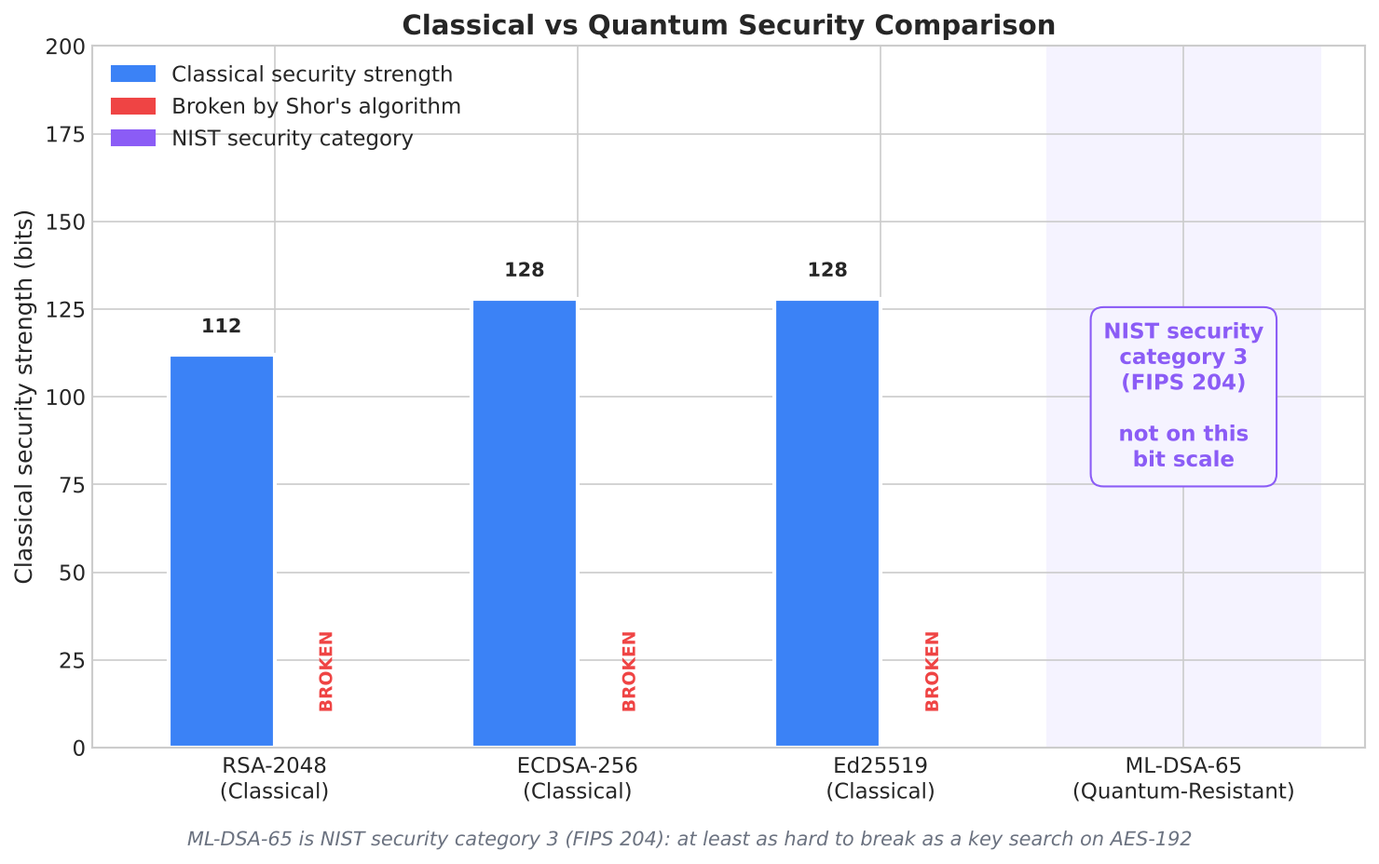
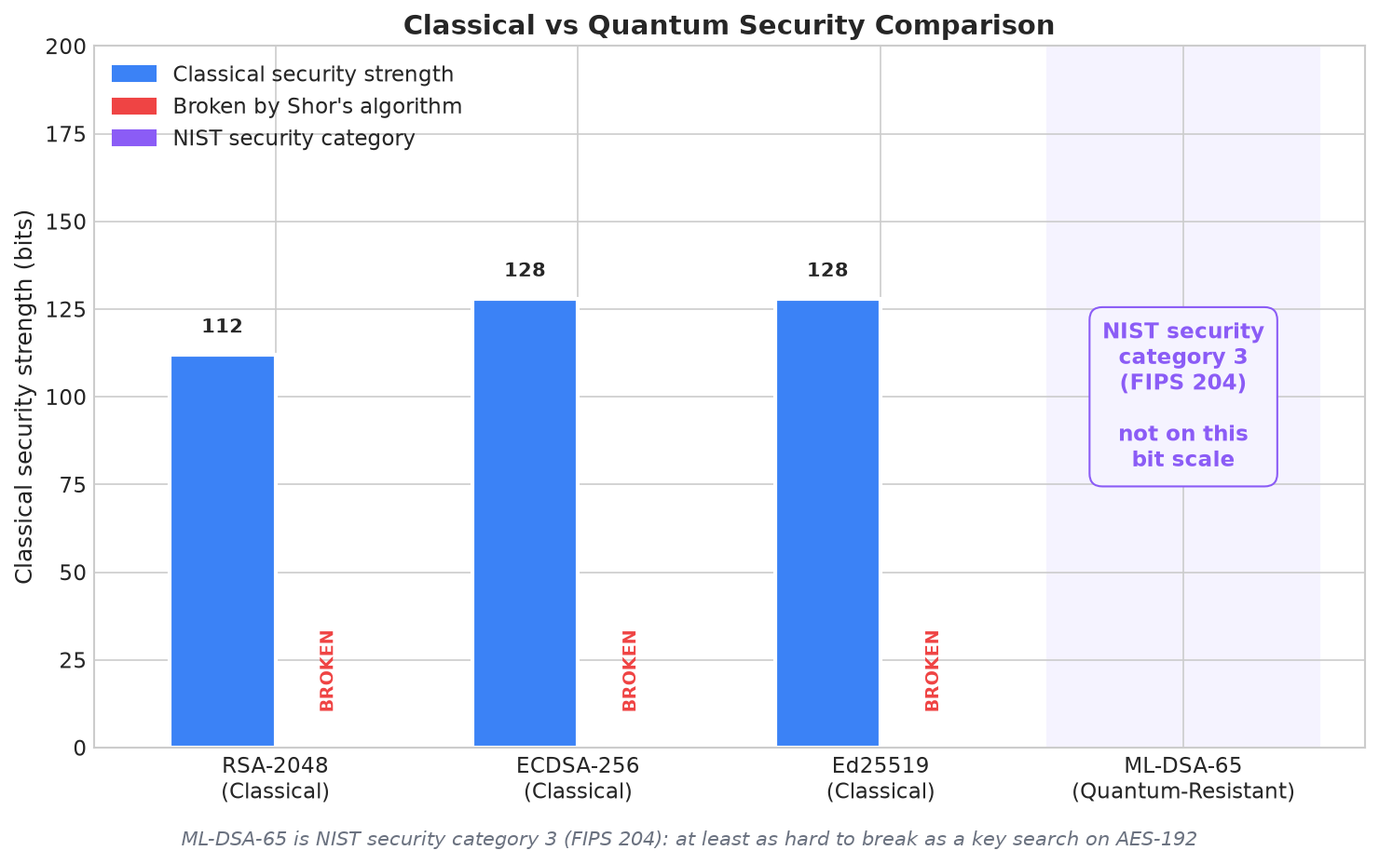
Imports rebind too — the gate's reset covers its own subject; the overridden-configuration null derivation is a stated cost contract
The final Copilot review on 4cb3c59 posted after that head was pushed,
so its two banner findings had no session watching and no thread to
carry them; both measured real on examination.

First: import os; import pathlib as os; import os flagged the third
line while deleting it leaves os bound to pathlib and breaks os.sep
(measured: AttributeError), and an intervening from-import alias had
the same problem — the rebinding reset covered every binding construct
except imports themselves. _scan_direct_imports now resets a tracked
key when a later import binds the same name to a DIFFERENT value and
treats from-import aliases as rebindings; value equality keeps true
redundancies flagged (import os.path between two import os rebinds os
to the same module, so the repeat stays a duplicate — measured:
deletion changes nothing). The own-scope exemption is answered
pairwise over (bound name, bound value) via _import_bound_pairs, so
import pathlib as os beside a nested plain import os exempts it while
import os as _os twice stays flagged — a first name-level form of this
fix broke exactly that repeated-identical-alias pin and was replaced.
PIN test_an_import_rebinding_makes_the_restore_import_load_bearing,
mutation-earned both ways: the reset dropped fails its top-level
cases, the pairwise exemption disabled fails its function-scope cases,
each exactly there, with both premises executed inside the test. The
tree sweep's verdict is unchanged.
[…]

diff --git a/tests/test_import_hygiene.py b/tests/test_import_hygiene.py
@@ -125,15 +125,31 @@ def _scan_direct_imports(
     """Flag repeats among one statement list's import bindings; return the
     ``(module, asname)`` pairs the list binds.
 
-    An intervening non-import statement that rebinds a name resets it:
-    after ``import os; os = 1`` a second ``import os`` in the same list
-    restores the module binding, so deleting it would leave the rebound
-    value — load-bearing, not dead (the same rule the cross-scope shape
-    applies at module scope; review finding, 2026-10-07).  The rebinding
-    walk over a compound statement over-collects from its nested suites,
-    which are scanned separately — over-collection only widens the reset,
-    the safe direction.
+    An intervening statement that rebinds a name resets it: after
+    ``import os; os = 1`` a second ``import os`` in the same list restores
+    the module binding, so deleting it would leave the rebound value —
+    load-bearing, not dead (the same rule the cross-scope shape applies at
+    module scope; review finding, 2026-10-07).  Imports rebind too (review
+    finding, 2026-10-07, second round): ``import pathlib as os`` and
+    ``from pathlib import Path as os`` each rebind ``os``, so a later
+    ``import os`` restores the module and is exempt.  An import resets a
+    key only when it binds the same name to a DIFFERENT value —
+    ``import os.path`` between two ``import os`` rebinds ``os`` to the
+    same module object, so the repeat stays flagged (measured: deleting it
+    changes nothing).  A plain alias binds its root module, an ``as``
+    alias binds the full dotted module, and a from-import never binds a
+    module this gate tracks, so it always resets.  The rebinding walk over
+    a compound statement over-collects from its nested suites, which are
+    scanned separately — over-collection only widens the reset, the safe
+    direction.
     """
+
+    def bound_name(key: tuple[str, str | None]) -> str:
+        return key[1] or key[0].split(".")[0]
+
+    def bound_value(key: tuple[str, str | None]) -> str:
+        return key[0] if key[1] else key[0].split(".")[0]
+
     seen: set[tuple[str, str | None]] = set()
     for stmt in body:
         if isinstance(stmt, ast.Import):
@@ -141,11 +157,19 @@ def _scan_direct_imports(
                 key = (alias.name, alias.asname)
                 if key in seen:
                     found.add((stmt.lineno, alias.name))
+                seen = {
+                    k
+                    for k in seen
+                    if bound_name(k) != bound_name(key) or bound_value(k) == bound_value(key)
+                }
                 seen.add(key)
             continue
-        rebound = _statement_bound_names(stmt)
+        if isinstance(stmt, ast.ImportFrom):
+            rebound = {alias.asname or alias.name for alias in stmt.names}
+        else:
+            rebound = _statement_bound_names(stmt)
         if rebound:
-            seen = {key for key in seen if (key[1] or key[0].split(".")[0]) not in rebound}
+            seen = {key for key in seen if bound_name(key) not in rebound}
     return seen
 
 
@@ -194,8 +218,9 @@ def _function_bound_names(fn: ast.AST, include_imports: bool = True) -> set[str]
     is the one binding the stop skips — vanishingly rare, and missing it
     only leaves a flag standing for a human to judge.
     ``include_imports=False`` drops the bindings import statements create,
-    for the own-scope question below (where the import under test must not
-    exempt itself).
+    for the own-scope question below: whether an import exempts its own
+    scope is value-dependent, so it is answered pairwise by
+    :func:`_import_bound_pairs`, not by this name set.
     """
     out: set[str] = set()
     args = getattr(fn, "args", None)
@@ -247,10 +272,14 @@ def _shadowed_nested_import_bindings(tree: ast.Module) -> set[tuple[int, str]]:
     * the import's OWN scope binds the name by a non-import construct
       (``os = 1`` anywhere in the function makes ``os`` function-local
       throughout, so without the import the use site hits that assignment
-      or UnboundLocalError, never the module import).  Import-created
-      bindings are excluded from the own-scope set so the import under
-      test cannot exempt itself and a genuine same-scope re-import stays
-      flagged.
+      or UnboundLocalError, never the module import), or by an import that
+      binds the same name to a DIFFERENT value — ``import pathlib as os``
+      and ``from pathlib import Path as os`` leave the plain ``import os``
+      beside them as what restores the module, never a repeat (review
+      finding, 2026-10-07, final Copilot round).  The own-scope import
+      question is answered pairwise over ``(bound name, bound value)``, so
+      an import cannot exempt itself and a same-value repeat —
+      ``import os as _os`` twice — stays flagged.
 
     Class bodies pass the enclosing set through unchanged — nested
     functions skip class scope in name resolution, so a class-body binding
@@ -263,16 +292,20 @@ def _shadowed_nested_import_bindings(tree: ast.Module) -> set[tuple[int, str]]:
         if isinstance(scope_node, ast.Module):
             own_all: frozenset[str] = frozenset()
             exempt: frozenset[str] = frozenset()
+            own_pairs: frozenset[tuple[str, str]] = frozenset()
         else:
             own_all = frozenset(_function_bound_names(scope_node))
             exempt = enclosing | frozenset(_function_bound_names(scope_node, include_imports=False))
+            own_pairs = frozenset(_import_bound_pairs(scope_node))
         stack: list[ast.AST] = list(ast.iter_child_nodes(scope_node))
         while stack:
             child = stack.pop()
             if isinstance(child, ast.Import):
                 for alias in child.names:
                     bound = alias.asname or alias.name.split(".")[0]
-                    if bound in exempt:
+                    value = alias.name if alias.asname else alias.name.split(".")[0]
+                    divergent = any(b == bound and v != value for b, v in own_pairs)
+                    if bound in exempt or divergent:
                         out.add((id(child), bound))
             if isinstance(child, (ast.FunctionDef, ast.AsyncFunctionDef, ast.Lambda)):
                 collect(child, enclosing | own_all)
@@ -280,6 +313,41 @@ def _shadowed_nested_import_bindings(tree: ast.Module) -> set[tuple[int, str]]:
                 stack.extend(ast.iter_child_nodes(child))
 
     collect(tree, frozenset())
+    return out
+
+
+def _import_bound_pairs(fn: ast.AST) -> set[tuple[str, str]]:
+    """``(bound name, bound value)`` pairs the function's own imports bind.
+
+    A plain ``import A.B`` binds ``A`` to module ``A``; ``import A.B as C``
+    binds ``C`` to module ``A.B``; ``from M import N as C`` binds ``C`` to
+    the attribute ``M.N``, encoded ``"from:M:N"`` so it can never equal a
+    module path.  The pairs let the own-scope exemption above compare
+    values, not just names: an import whose scope holds another import of
+    the SAME name but a DIFFERENT value is load-bearing (it restores the
+    module that other import displaced), while a same-value repeat is the
+    duplicate the gate exists to flag.  The walk stops where
+    :func:`_function_bound_names` stops (nested function and class bodies
+    bind their own scopes).
+    """
+    out: set[tuple[str, str]] = set()
+    body = getattr(fn, "body", [])
+    stack: list[ast.AST] = list(body) if isinstance(body, list) else [body]
+    while stack:
+        node = stack.pop()
+        if isinstance(node, (ast.FunctionDef, ast.AsyncFunctionDef, ast.ClassDef, ast.Lambda)):
+            continue
+        if isinstance(node, ast.Import):
+            for alias in node.names:
+                if alias.asname:
+                    out.add((alias.asname, alias.name))
+                else:
+                    root = alias.name.split(".")[0]
+                    out.add((root, root))
+        elif isinstance(node, ast.ImportFrom):
+            for alias in node.names:
+                out.add((alias.asname or alias.name, f"from:{node.module}:{alias.name}"))
+        stack.extend(ast.iter_child_nodes(node))
     return out
 
 
@@ -444,6 +512,55 @@ def test_a_module_scope_rebinding_makes_the_import_load_bearing() -> None:
         "import os\n\nprint(os.sep)\n"
     )
     assert duplicate_plain_imports(mapping_rest) == []
+
+
+def test_an_import_rebinding_makes_the_restore_import_load_bearing() -> None:
+    """PIN (review finding, 2026-10-07, final Copilot round): imports rebind
+    too.  ``import pathlib as os`` and ``from pathlib import Path as os``
+    each leave ``os`` bound to something other than the ``os`` module, so a
+    later plain ``import os`` RESTORES the module — deleting it breaks the
+    use sites (measured below: AttributeError on ``os.sep``) — while
+    ``import os.path`` rebinds ``os`` to the SAME module object, so a
+    repeat across it stays a flagged redundancy (measured: deletion changes
+    nothing).  Mutation: dropping the value-aware reset from
+    ``_scan_direct_imports`` fails the two top-level exemptions; dropping
+    the divergent-import own-scope bindings from ``_function_bound_names``
+    fails the two function-scope exemptions — each exactly here."""
+    aliased = "import os\nimport pathlib as os\nimport os\n\nprint(os.sep)\n"
+    assert duplicate_plain_imports(aliased) == []
+    from_form = "import os\nfrom pathlib import Path as os\nimport os\n\nprint(os.sep)\n"
+    assert duplicate_plain_imports(from_form) == []
+    # The premise, measured in place: WITHOUT the restore import, the use
+    # site resolves ``os`` to the rebound value and breaks.
+    for deleted in (
+        "import os\nimport pathlib as os\nos.sep\n",
+        "import os\nfrom pathlib import Path as os\nos.sep\n",
+    ):
+        with pytest.raises(AttributeError):
+            exec(  # noqa: S102 -- fixed test literal, premise measurement (TIH-001)
+                compile(deleted, "<rebound>", "exec"), {}
+            )
+    # Same-value rebinding is no exemption: ``import os.path`` binds ``os``
+    # to the os module itself, so the repeat across it stays flagged, and a
+    # genuine duplicate aliased pair stays flagged (value-equality guard).
+    same_value = "import os\nimport os.path\nimport os\n"
+    assert duplicate_plain_imports(same_value) == [(3, "os")]
+    aliased_pair = "import pathlib as p\nimport pathlib as p\n"
+    assert duplicate_plain_imports(aliased_pair) == [(2, "pathlib")]
+    # The same two shapes exempt at function scope (the own-scope set
+    # counts divergent import bindings; a plain re-import still cannot
+    # self-exempt — control below).
+    fn_aliased = (
+        "import os\n\n\ndef f():\n    import pathlib as os\n    import os\n\n" "    return os.sep\n"
+    )
+    assert duplicate_plain_imports(fn_aliased) == []
+    fn_from = (
+        "import os\n\n\ndef f():\n    from pathlib import Path as os\n"
+        "    import os\n\n    return os.sep\n"
+    )
+    assert duplicate_plain_imports(fn_from) == []
+    fn_control = "import os\n\n\ndef f():\n    import os\n    import os\n\n    return os.sep\n"
+    assert duplicate_plain_imports(fn_control) == [(5, "os"), (6, "os")]
 
 
 def test_a_class_body_binding_does_not_exempt_a_nested_duplicate() -> None:

diff --git a/ama_cryptography/monitoring.py b/ama_cryptography/monitoring.py
@@ -2372,7 +2372,11 @@ class ResonanceTimingMonitor:
             ``window_size=20000`` monitor produced m = 16,384, off the
             pinned table, and the first report ran a 65.5-million-draw
             synchronous null simulation — measured 15.1 s — plus a
-            32,768-point FFT).
+            32,768-point FFT).  The pinned bars answer for the default
+            configuration; a subclass overriding the resonance
+            configuration derives its own bars, a bounded one-time cost
+            per spectrum size stated at :meth:`_multiline_threshold`'s
+            cost contract (measured 5.2 s at the capped worst size).
         """
         # Snapshot under the monitor lock: record_timing() appends to this
         # same deque under self._lock on every instrumented operation, and
@@ -2587,8 +2591,24 @@ class ResonanceTimingMonitor:
         of ``m`` iid unit-exponential ordinates (the periodogram null).
         The seed is fixed per size, so the bar is byte-reproducible across
         processes, and the result is cached: the draw runs once per
-        distinct spectrum size per process, off the hot path
+        distinct cache identity per process, off the hot path
         (detect_resonance is on-demand, not per-record).
+
+        Cost contract (measured, 2026-10-07): the DEFAULT configuration
+        never pays the draw from the public pipeline — detect_resonance's
+        window cap keeps every spectrum size it can produce on the pinned
+        table.  A subclass that overrides ``RESONANCE_FALSE_ALARM_RATE``,
+        ``MULTILINE_ORDINATES`` or ``_MULTILINE_NULL_TRIALS`` has changed
+        what the bar must be, so its first report at each spectrum size
+        derives the bar here — 5.2 s at the capped worst size (m = 8,192,
+        4,000 trials, shared 4-vCPU container), microseconds from the
+        cache thereafter.  That one-time cost is what a correct empirical
+        bar for a non-default configuration costs: the table cannot be
+        precomputed over a continuous override space, and serving the
+        default table to an overridden configuration was the defect the
+        configuration gate closed.  An overriding operator who cannot
+        afford first-report latency can warm the cache at startup by
+        calling this method directly for the sizes the window produces.
 
         The iid-exponential null is an IDEALISATION shared with Fisher's
         analytic bar above it: the pipeline zero-pads n samples to the next

diff --git a/docs/METRICS_REPORT.md b/docs/METRICS_REPORT.md
@@ -91,20 +91,20 @@ Measured as non-empty-allowed `wc -l` over source files in each scope.
 
 | Scope | Files | Lines |
 |-------|------:|------:|
-| Library Python (`ama_cryptography/*.py`) | 30 | 43,191 |
+| Library Python (`ama_cryptography/*.py`) | 30 | 43,211 |
 | Native C (`src/c/**/*.c`, `include/**/*.h`) | 89 | 54,245 |
-| Library total (Python + C + headers) | 119 | **97,436** |
+| Library total (Python + C + headers) | 119 | **97,456** |
 | Top-level Python (monitors, benchmarks, demos) | 2 | 1,467 |
-| Tests (`tests/**/*.py`) | 279 | 133,004 |
+| Tests (`tests/**/*.py`) | 279 | 133,121 |
 | Cython (`*.pyx`, `*.pxd`) | 7 | 1,898 |
-| **Whole project** (source + docs + config) | 790 | **478,721** |
+| **Whole project** (source + docs + config) | 790 | **478,901** |
 
 **Library total (the figure that most closely tracks "library size"):
-97,436 lines** across 119 files under `ama_cryptography/`, `src/c/`,
+97,456 lines** across 119 files under `ama_cryptography/`, `src/c/`,
 and `include/`. This supersedes any "11,246 LoC" claim that may have
 appeared externally.
 
-**Whole-project total** (`478,721` lines across Python, C, headers,
+**Whole-project total** (`478,901` lines across Python, C, headers,
 Cython, Markdown, YAML/TOML/JSON config, CMake and Makefiles) is the
 broader figure some external claims may have been referencing. Reproduce
 it with:
@@ -155,7 +155,7 @@ excluded.
 
 ### Scope Composition
 
-The gap between "library" and "whole project" is informative: only **20.4%** of the repository is library code. The rest is tests, docs,
+The gap between "library" and "whole project" is informative: only **20.3%** of the repository is library code. The rest is tests, docs,
 config, vendored vector corpora, and scaffolding — verification
 artifacts outweighing library code is a healthy ratio for a security
 library that takes verification seriously, but the vendored share means
@@ -163,14 +163,14 @@ the whole-project figure overstates hand-written code.
 
 | Scope                                | Lines    | % of whole | Paths                                                   |
 |--------------------------------------|---------:|-----------:|---------------------------------------------------------|
-| Library (Python + C + headers) | 97,436 | 20.4% | `ama_cryptography/` + `src/c/` + `include/` |
-| Tests | 133,004 | 27.8% | `tests/**/*.py` |
+| Library (Python + C + headers) | 97,456 | 20.3% | `ama_cryptography/` + `src/c/` + `include/` |
+| Tests | 133,121 | 27.8% | `tests/**/*.py` |
 | Top-level Python | 1,467 | 0.3% | `*.py` at repo root |
 | Cython | 1,898 | 0.4% | `*.pyx` + `*.pxd` |
-| Everything else (remainder) | 244,916 | 51.2% | `*.md`, `*.yml`, `*.toml`, `*.json`, CMake, Makefile, plus `.c`/`.h`/`.py` outside the scopes above (`tests/c/`, `fuzz/`, `tools/`, `benchmarks/`, `examples/`) |
-| **Whole-project total** | **478,721** | **100%** | sum of the scopes above |
+| Everything else (remainder) | 244,959 | 51.2% | `*.md`, `*.yml`, `*.toml`, `*.json`, CMake, Makefile, plus `.c`/`.h`/`.py` outside the scopes above (`tests/c/`, `fuzz/`, `tools/`, `benchmarks/`, `examples/`) |
+| **Whole-project total** | **478,901** | **100%** | sum of the scopes above |
 
-Test code (27.8%) is roughly 1.4x the size of the library (20.4%) — i.e. the test-to-library ratio is roughly **1.37**, and that
+Test code (27.8%) is roughly 1.4x the size of the library (20.3%) — i.e. the test-to-library ratio is roughly **1.37**, and that
 counts only `tests/**/*.py`; the C test suite under `tests/c/` lands
 in the remainder row. The remainder (51.2%) is dominated by the
 vendored NIST ACVP and Wycheproof JSON corpora (72,695 lines of `*.json` alone) and by this repository's Markdown, not by config.
@@ -238,7 +238,7 @@ git ls-files -z | tr '\0' '\n' \
 | Scope | Count |
 |-------|------:|
 | Python test files under `tests/` matching the static regex | 274 |
-| Syntactic `def test_` matches under `tests/**/*.py` | **6,831** |
+| Syntactic `def test_` matches under `tests/**/*.py` | **6,832** |
 | `test_*.c` files under `tests/c/` (ctest-registered) | 95 |
 | `bench_*.c` files under `tests/c/` (standalone, not in ctest) | 0 |
 | `fuzz_*.c` sources under `fuzz/` | 16 |

diff --git a/CHANGELOG.md b/CHANGELOG.md
@@ -34,6 +34,49 @@ All notable changes to AMA Cryptography will be documented in this file. The for
 > is kept verbatim in
 > [`docs/changelog/5.0.0-development-journal.md`](docs/changelog/5.0.0-development-journal.md).
 
+### Copilot round on `4cb3c59`: imports rebind too, and the derivation cost for an overridden configuration is a stated contract — 2026-10-07
+
+- **The import gate missed that imports themselves rebind.** High, the
+  final Copilot review's banner finding (posted after `4cb3c59` was
+  pushed, so no session had seen it): `import os; import pathlib as os;
+  import os` flagged the third line, while deleting it leaves `os` bound
+  to `pathlib` and breaks `os.sep` (measured: AttributeError), and an
+  intervening `from pathlib import Path as os` had the same problem —
+  the rebinding reset covered every binding construct EXCEPT the gate's
+  own subject.  `_scan_direct_imports` now resets a tracked key when a
+  later import binds the same name to a DIFFERENT value, and treats
+  from-import aliases as rebindings; value equality keeps the true
+  redundancies flagged (`import os.path` between two `import os` rebinds
+  `os` to the same module, so the repeat stays a duplicate — measured:
+  deletion changes nothing).  The own-scope exemption is now answered
+  pairwise over `(bound name, bound value)` via `_import_bound_pairs`,
+  so `import pathlib as os` beside a nested plain `import os` exempts it
+  while `import os as _os` twice stays flagged — a first name-level form
+  of this fix broke exactly that repeated-identical-alias pin and was
+  replaced.  PIN
+  `test_an_import_rebinding_makes_the_restore_import_load_bearing`
+  (mutation-earned both ways: the reset dropped fails its top-level
+  cases, the pairwise exemption disabled fails its function-scope cases,
+  each exactly there; both premises executed in the test).  The tree
+  sweep's verdict is unchanged.
+- **The one-time null-bar derivation for an overridden resonance
+  configuration is a stated cost contract, not a removed path.** The
+  same review observed that a subclass overriding
+  `RESONANCE_FALSE_ALARM_RATE`, `MULTILINE_ORDINATES` or
+  `_MULTILINE_NULL_TRIALS` still reaches the synchronous measured-null
+  derivation from `get_security_report` (at the capped worst size,
+  m = 8,192: measured 5.2 s once, microseconds from the cache after).
+  Measured and kept, with the contract documented at
+  `_multiline_threshold` and `detect_resonance`: the default
+  configuration never pays it (the window cap keeps every public
+  spectrum size on the pinned table), the override space is continuous
+  so no table can precompute it, and serving the default table to an
+  overridden configuration was precisely the defect the configuration
+  gate closed — the review's suggested remedies would reintroduce it or
+  refuse a supported override.  An operator who cannot afford
+  first-report latency warms the cache at startup; the path is the
+  correct bar's irreducible cost, not an oversight.
+
 ### Copilot round on `08617a4`: mapping-rest captures are bindings, one working directory in the example sequences — 2026-10-07
 
 - **Both binding collectors in the import gate missed

diff --git a/README.md b/README.md
@@ -927,7 +927,7 @@ The test suite includes:
 
 ![Test Suite Coverage](assets/test_coverage.png)
 
-*6,831 test functions across 274 Python test files plus 95 C test suites (97 translation units) covering core crypto and NIST KATs (including the AVX-512 4-way Keccak KAT, CSPRNG-failure scrubbing (`tests/c/test_csprng_failure_residue.c`), ML-DSA hint encoding (`tests/c/test_ml_dsa_hint_encoding.c`), input guards (`tests/c/test_input_guards.c`), fe51-vs-fe64 X25519 byte-equivalence, MULX+ADX equivalence, VAES AES-GCM equivalence, FROST threshold signing, Ed25519 Shamir verify and base-point comb equivalence, and Dilithium / Kyber sampling-equivalence pinning), PQC backends, key management, adaptive posture, hybrid combiner, memory security, fuzz harnesses, and performance/monitoring. See [docs/METRICS_REPORT.md](docs/METRICS_REPORT.md) for the authoritative count and reproduction command (`grep -rE "^\s*def test_" tests/ --include='*.py' | wc -l`).*
+*6,832 test functions across 274 Python test files plus 95 C test suites (97 translation units) covering core crypto and NIST KATs (including the AVX-512 4-way Keccak KAT, CSPRNG-failure scrubbing (`tests/c/test_csprng_failure_residue.c`), ML-DSA hint encoding (`tests/c/test_ml_dsa_hint_encoding.c`), input guards (`tests/c/test_input_guards.c`), fe51-vs-fe64 X25519 byte-equivalence, MULX+ADX equivalence, VAES AES-GCM equivalence, FROST threshold signing, Ed25519 Shamir verify and base-point comb equivalence, and Dilithium / Kyber sampling-equivalence pinning), PQC backends, key management, adaptive posture, hybrid combiner, memory security, fuzz harnesses, and performance/monitoring. See [docs/METRICS_REPORT.md](docs/METRICS_REPORT.md) for the authoritative count and reproduction command (`grep -rE "^\s*def test_" tests/ --include='*.py' | wc -l`).*
 
 </details>
 
@@ -1486,7 +1486,7 @@ The human architect does not hold formal credentials in cryptography. The AI con
 
 - **Standards-based design:** Built on the standards in [CSRC_STANDARDS.md](CSRC_STANDARDS.md) — not custom cryptography
 - **Quantified claims:** Every published figure names its host, command and record ([docs/BENCHMARK_HISTORY.md](docs/BENCHMARK_HISTORY.md), `benchmarks/canonical-host.json`)
-- **Rigorous testing:** 6,831 test functions across 274 Python files plus 95 C test suites, anchored in [docs/METRICS_REPORT.md](docs/METRICS_REPORT.md); CI includes security scanning, NIST ACVP validation (1,215/1,215 — 815 AFT + 400 SHA-3 MCT), and benchmark-regression checks
+- **Rigorous testing:** 6,832 test functions across 274 Python files plus 95 C test suites, anchored in [docs/METRICS_REPORT.md](docs/METRICS_REPORT.md); CI includes security scanning, NIST ACVP validation (1,215/1,215 — 815 AFT + 400 SHA-3 MCT), and benchmark-regression checks
 - **Regression detection:** Benchmark floors measured on each CI runner class (x86_64 45% tolerance; aarch64 15–25%)
 - **Transparent limitations:** Security analysis explicitly distinguishes self-assessed vs. audited claims
 - **Defense-in-depth:** Security bounded by the weakest layer (~128-bit classical), not inflated aggregate claims

diff --git a/ARCHITECTURE.md b/ARCHITECTURE.md
@@ -789,7 +789,7 @@ AEAD nonce state (INVARIANT-22) and session state are per-process or per-file an
 | NIST ACVP Vectors | Official vector validation | 1,215 vectors, 12 algorithm functions (815 AFT + 400 SHA-3 MCT); self-attested, not CAVP | `nist_vectors/`; `acvp_validation.yml` fails if any of the 1,215 regresses (INVARIANT-18) |
 | Wycheproof | Adversarial vectors | 15 vendored corpora | `wycheproof_vectors/run_wycheproof.py` |
 
-**Total:** 6,831 Python test functions across 274 test files, plus the
+**Total:** 6,832 Python test functions across 274 test files, plus the
 ctest-registered C tests and the two `x25519_equiv_*.c` helper translation units under `tests/c/`,
 which have no `main` of their own and are linked into `test_x25519_field_equiv`
 (the set of C tests depends on `AMA_USE_NATIVE_PQC`, `AMA_AES_CONSTTIME`, the ISA
